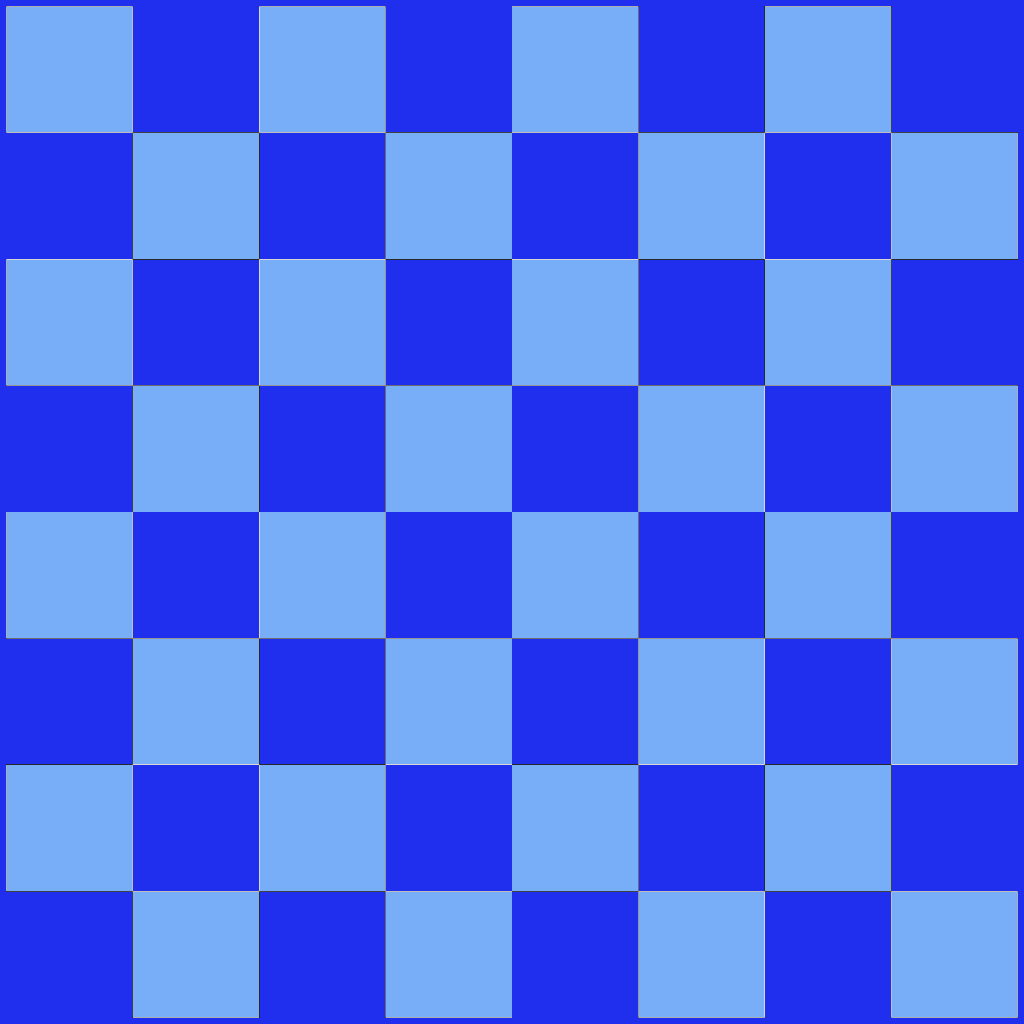
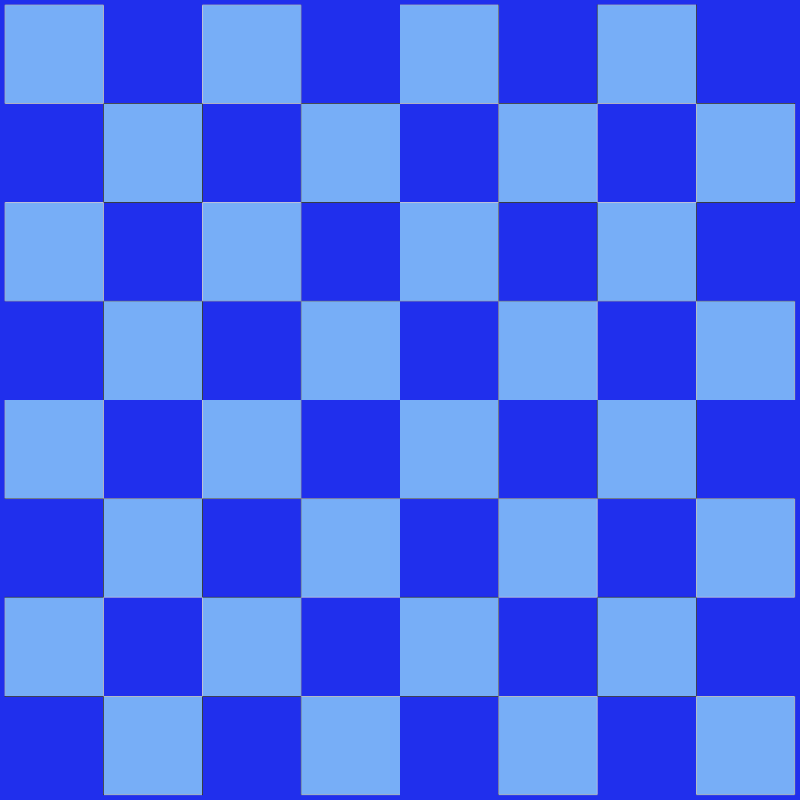
resized images of boards, added color customization of boards

diff --git a/src/sk/stu/fiit/GUI/MainWindow.java b/src/sk/stu/fiit/GUI/MainWindow.java
@@ -5,6 +5,12 @@
  */
 package sk.stu.fiit.GUI;
 
+import java.awt.Image;
+import java.io.File;
+import java.nio.file.Paths;
+import javax.swing.ImageIcon;
+import javax.swing.JLabel;
+
 /**
  *
  * @author matba
@@ -16,7 +22,11 @@ public class MainWindow extends javax.swing.JFrame {
      */
     public MainWindow() {
         initComponents();
+        panelGameBoard.setLayout(null);
     }
+
+    private int[] nextPosBlackElim = {810, 70};
+    private int[] nextPosWhiteElim = {810, 710};
 
     /**
      * This method is called from within the constructor to initialize the form.
@@ -99,6 +109,7 @@ public class MainWindow extends javax.swing.JFrame {
         panelGame.setLayout(new org.netbeans.lib.awtextra.AbsoluteLayout());
 
         panelGameBoard.setBackground(new java.awt.Color(255, 255, 255));
+        panelGameBoard.setOpaque(false);
         panelGameBoard.setPreferredSize(new java.awt.Dimension(800, 800));
         panelGameBoard.setLayout(new org.netbeans.lib.awtextra.AbsoluteLayout());
 
@@ -199,21 +210,26 @@ public class MainWindow extends javax.swing.JFrame {
         panelGameBoard.add(blackRookR, new org.netbeans.lib.awtextra.AbsoluteConstraints(700, 0, 100, 100));
 
         lblGameBoard.setIcon(new javax.swing.ImageIcon(getClass().getResource("/figurky_png/boards/woodboard.png"))); // NOI18N
+        lblGameBoard.addMouseListener(new java.awt.event.MouseAdapter() {
+            public void mouseReleased(java.awt.event.MouseEvent evt) {
+                lblGameBoardMouseReleased(evt);
+            }
+        });
         panelGameBoard.add(lblGameBoard, new org.netbeans.lib.awtextra.AbsoluteConstraints(0, 0, -1, -1));
-
-        panelGame.add(panelGameBoard, new org.netbeans.lib.awtextra.AbsoluteConstraints(80, 40, -1, -1));
 
         panelGameWhiteMiniFigures.setBackground(new java.awt.Color(237, 223, 206));
         panelGameWhiteMiniFigures.setBorder(javax.swing.BorderFactory.createLineBorder(new java.awt.Color(255, 255, 255), 4));
         panelGameWhiteMiniFigures.setPreferredSize(new java.awt.Dimension(40, 340));
         panelGameWhiteMiniFigures.setLayout(new org.netbeans.lib.awtextra.AbsoluteLayout());
-        panelGame.add(panelGameWhiteMiniFigures, new org.netbeans.lib.awtextra.AbsoluteConstraints(880, 100, -1, 340));
+        panelGameBoard.add(panelGameWhiteMiniFigures, new org.netbeans.lib.awtextra.AbsoluteConstraints(800, 60, -1, 340));
 
         panelGameBlackMiniFigures.setBackground(new java.awt.Color(148, 51, 13));
         panelGameBlackMiniFigures.setBorder(javax.swing.BorderFactory.createLineBorder(new java.awt.Color(255, 255, 255), 4));
         panelGameBlackMiniFigures.setPreferredSize(new java.awt.Dimension(40, 340));
         panelGameBlackMiniFigures.setLayout(new org.netbeans.lib.awtextra.AbsoluteLayout());
-        panelGame.add(panelGameBlackMiniFigures, new org.netbeans.lib.awtextra.AbsoluteConstraints(880, 440, -1, 340));
+        panelGameBoard.add(panelGameBlackMiniFigures, new org.netbeans.lib.awtextra.AbsoluteConstraints(800, 400, -1, 340));
+
+        panelGame.add(panelGameBoard, new org.netbeans.lib.awtextra.AbsoluteConstraints(80, 40, 840, 800));
 
         panelGameRows.setBackground(new java.awt.Color(255, 255, 255));
         panelGameRows.setPreferredSize(new java.awt.Dimension(40, 780));
@@ -250,6 +266,11 @@ public class MainWindow extends javax.swing.JFrame {
         panelGameDialog.add(lblGameMoveHistory, new org.netbeans.lib.awtextra.AbsoluteConstraints(10, 150, -1, -1));
 
         comboGameBoardColor.setModel(new javax.swing.DefaultComboBoxModel<>(new String[] { "Default", "Blue", "Brown", "Green", "Grey", "Red" }));
+        comboGameBoardColor.addItemListener(new java.awt.event.ItemListener() {
+            public void itemStateChanged(java.awt.event.ItemEvent evt) {
+                comboGameBoardColorItemStateChanged(evt);
+            }
+        });
         panelGameDialog.add(comboGameBoardColor, new org.netbeans.lib.awtextra.AbsoluteConstraints(30, 40, 310, 30));
 
         lblGameBoardColor.setText("Customize board");
@@ -313,6 +334,42 @@ public class MainWindow extends javax.swing.JFrame {
         pack();
         setLocationRelativeTo(null);
     }// </editor-fold>//GEN-END:initComponents
+
+    private void lblGameBoardMouseReleased(java.awt.event.MouseEvent evt) {//GEN-FIRST:event_lblGameBoardMouseReleased
+        // TODO add your handling code here:
+        eliminateFigure(whiteQueen, true);
+        eliminateFigure(blackPawnB, false);
+    }//GEN-LAST:event_lblGameBoardMouseReleased
+
+    private void comboGameBoardColorItemStateChanged(java.awt.event.ItemEvent evt) {//GEN-FIRST:event_comboGameBoardColorItemStateChanged
+        // TODO add your handling code here:
+        String color = comboGameBoardColor.getSelectedItem().toString();
+        if (color == null) {
+            return;
+        }
+        switch (color) {
+            case "Default":
+                lblGameBoard.setIcon(new ImageIcon(Paths.get("src", "figurky_png", "boards", "woodboard.png").toString()));
+                break;
+            case "Blue":
+                lblGameBoard.setIcon(new ImageIcon(Paths.get("src", "figurky_png", "boards", "blueboard.png").toString()));
+                break;
+            case "Brown":
+                lblGameBoard.setIcon(new ImageIcon(Paths.get("src", "figurky_png", "boards", "brownboard.png").toString()));
+                break;
+            case "Green":
+                lblGameBoard.setIcon(new ImageIcon(Paths.get("src", "figurky_png", "boards", "greenboard.png").toString()));
+                break;
+            case "Grey":
+                lblGameBoard.setIcon(new ImageIcon(Paths.get("src", "figurky_png", "boards", "greyboard.png").toString()));
+                break;
+            case "Red":
+                lblGameBoard.setIcon(new ImageIcon(Paths.get("src", "figurky_png", "boards", "redboard.png").toString()));
+                break;
+            default:
+                lblGameBoard.setIcon(new ImageIcon(Paths.get("src", "figurky_png", "boards", "woodboard.png").toString()));
+        }
+    }//GEN-LAST:event_comboGameBoardColorItemStateChanged
 
     /**
      * @param args the command line arguments
@@ -409,4 +466,28 @@ public class MainWindow extends javax.swing.JFrame {
     private javax.swing.JLabel whiteRookL;
     private javax.swing.JLabel whiteRookR;
     // End of variables declaration//GEN-END:variables
+
+    private void resetElimPosValues() {
+        nextPosBlackElim[0] = 810;
+        nextPosBlackElim[1] = 70;
+        nextPosWhiteElim[0] = 810;
+        nextPosWhiteElim[1] = 710;
+    }
+
+    private void eliminateFigure(JLabel figure, boolean isWhite) {
+        figure.setIcon(rescale((ImageIcon) figure.getIcon(), 20, 20));
+        if (isWhite) {
+            figure.setBounds(nextPosWhiteElim[0], nextPosWhiteElim[1], 20, 20);
+            nextPosWhiteElim[1] -= 20;
+        } else {
+            figure.setBounds(nextPosBlackElim[0], nextPosBlackElim[1], 20, 20);
+            nextPosBlackElim[1] += 20;
+        }
+    }
+
+    private ImageIcon rescale(ImageIcon i, int width, int height) {
+        Image image = i.getImage();
+        Image newImage = image.getScaledInstance(width, height, java.awt.Image.SCALE_SMOOTH);
+        return new ImageIcon(newImage);
+    }
 }

diff --git a/src/sk/stu/fiit/GUI/Tips_And_Rules.java b/src/sk/stu/fiit/GUI/Tips_And_Rules.java
@@ -31,7 +31,7 @@ public class Tips_And_Rules extends javax.swing.JFrame {
         jScrollPane1 = new javax.swing.JScrollPane();
         jTextPane1 = new javax.swing.JTextPane();
 
-        setDefaultCloseOperation(javax.swing.WindowConstants.EXIT_ON_CLOSE);
+        setDefaultCloseOperation(javax.swing.WindowConstants.DISPOSE_ON_CLOSE);
         setPreferredSize(new java.awt.Dimension(816, 839));
         getContentPane().setLayout(new org.netbeans.lib.awtextra.AbsoluteLayout());
 
